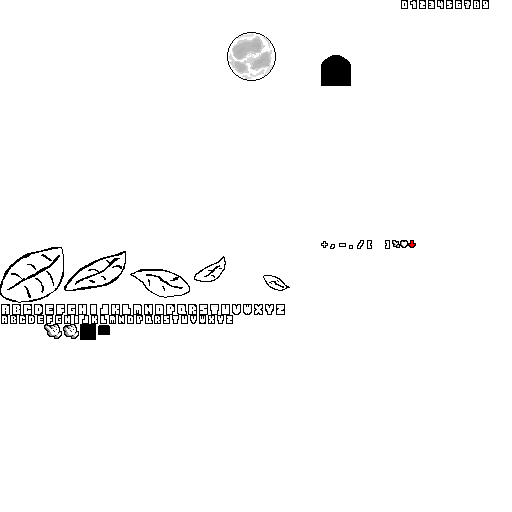
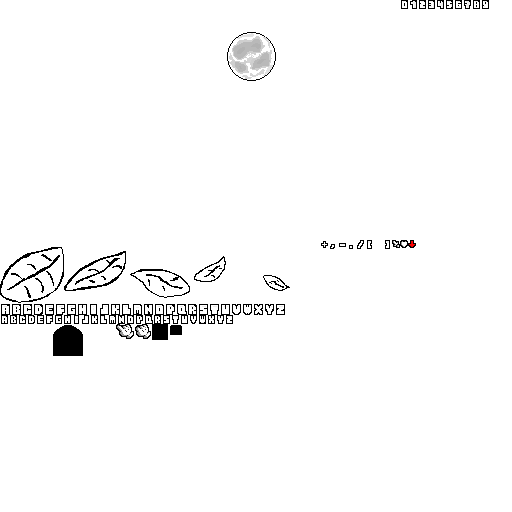
[Add] New spell art.

Changed region(s): [[0.0938, 0.625, 0.375, 0.7188], [0.625, 0.0938, 0.6875, 0.1875]]

diff --git a/GraphicsEngine/Game/Src/CardGame.cpp b/GraphicsEngine/Game/Src/CardGame.cpp
@@ -722,7 +722,7 @@ namespace game
 			arr[i] = TextInterpreter::Concat(arr[i], ".png", arena);
 			*/
 
-			arr[i] = "Art/Spells/enrage.png";
+			arr[i] = "Art/Spells/ascension.png";
 		}
 		
 		arr[MONSTER_IDS::DAISY] = "Art/Monsters/daisy.png";
@@ -766,6 +766,12 @@ namespace game
 		arr[SPELL_ID_START + SPELL_IDS::DOUBLE_TROUBLE] = "Art/Spells/double_trouble.png";
 		arr[SPELL_ID_START + SPELL_IDS::GOBLIN_AMBUSH] = "Art/Spells/goblin_ambush.png";
 		arr[SPELL_ID_START + SPELL_IDS::WINDFALL] = "Art/Spells/windfall.png";
+		arr[SPELL_ID_START + SPELL_IDS::RALLY] = "Art/Spells/rally.png";
+		arr[SPELL_ID_START + SPELL_IDS::HOLD_THE_LINE] = "Art/Spells/hold_the_line.png";
+		arr[SPELL_ID_START + SPELL_IDS::RAMPANT_GROWTH] = "Art/Spells/rampant_growth.png";
+		arr[SPELL_ID_START + SPELL_IDS::ENLIGHTENMENT] = "Art/Spells/enlightenment.png";
+		arr[SPELL_ID_START + SPELL_IDS::DRUIDIC_RITUAL] = "Art/Spells/druidic_ritual.png";
+		arr[SPELL_ID_START + SPELL_IDS::ASCENSION] = "Art/Spells/ascension.png";
 
 		arr[SPELL_ID_START + SPELL_IDS::UNSTABLE_COPY] = "Art/Spells/unstable_copy.png";
 		return arr;

diff --git a/GraphicsEngine/Game/Src/Levels/MainLevel.cpp b/GraphicsEngine/Game/Src/Levels/MainLevel.cpp
@@ -598,7 +598,7 @@ namespace game
 
 				eventSelectionDrawInfo.metaDatas = &metaDatas[META_DATA_EVENT_INDEX];
 				eventSelectionDrawInfo.activationIndex = -1;
-				eventSelectionDrawInfo.centerOffset += 26;// *= -1;
+				eventSelectionDrawInfo.centerOffset += 28;// *= -1;
 				eventSelectionDrawInfo.length = cards.count;
 
 				// Draw additional events.
@@ -756,7 +756,7 @@ namespace game
 		handSelectionDrawInfo.costs = costs;
 		handSelectionDrawInfo.combatStats = nullptr;
 		handSelectionDrawInfo.metaDatas = &metaDatas[META_DATA_HAND_INDEX];
-		handSelectionDrawInfo.offsetMod = -14;
+		handSelectionDrawInfo.offsetMod = -12;
 		handSelectionDrawInfo.selectable = state.stack.count == 0 && !activeStateValid;
 		handSelectionDrawInfo.draggable = handSelectionDrawInfo.selectable;
 		handSelectionDrawInfo.isSmall = true;
